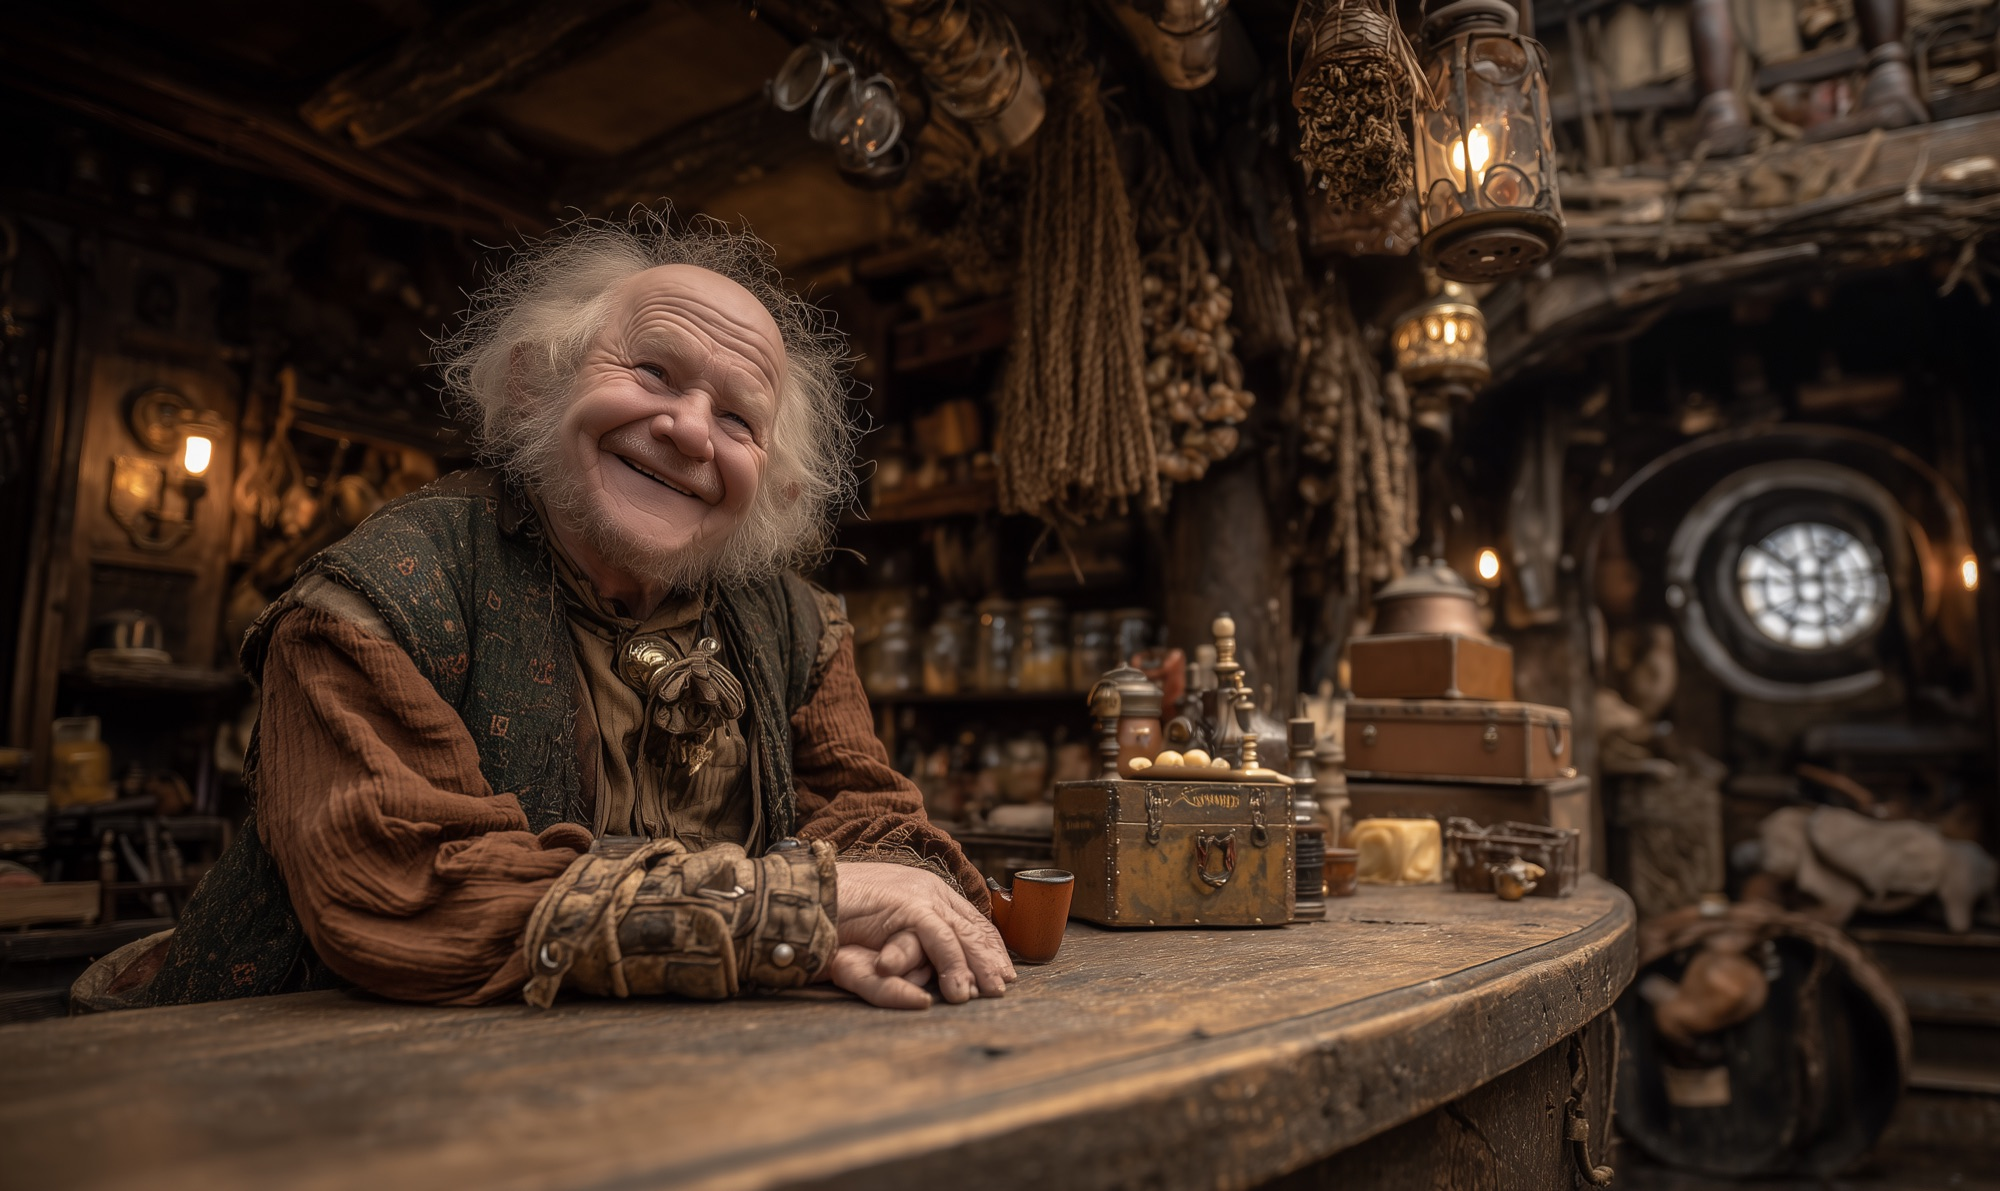
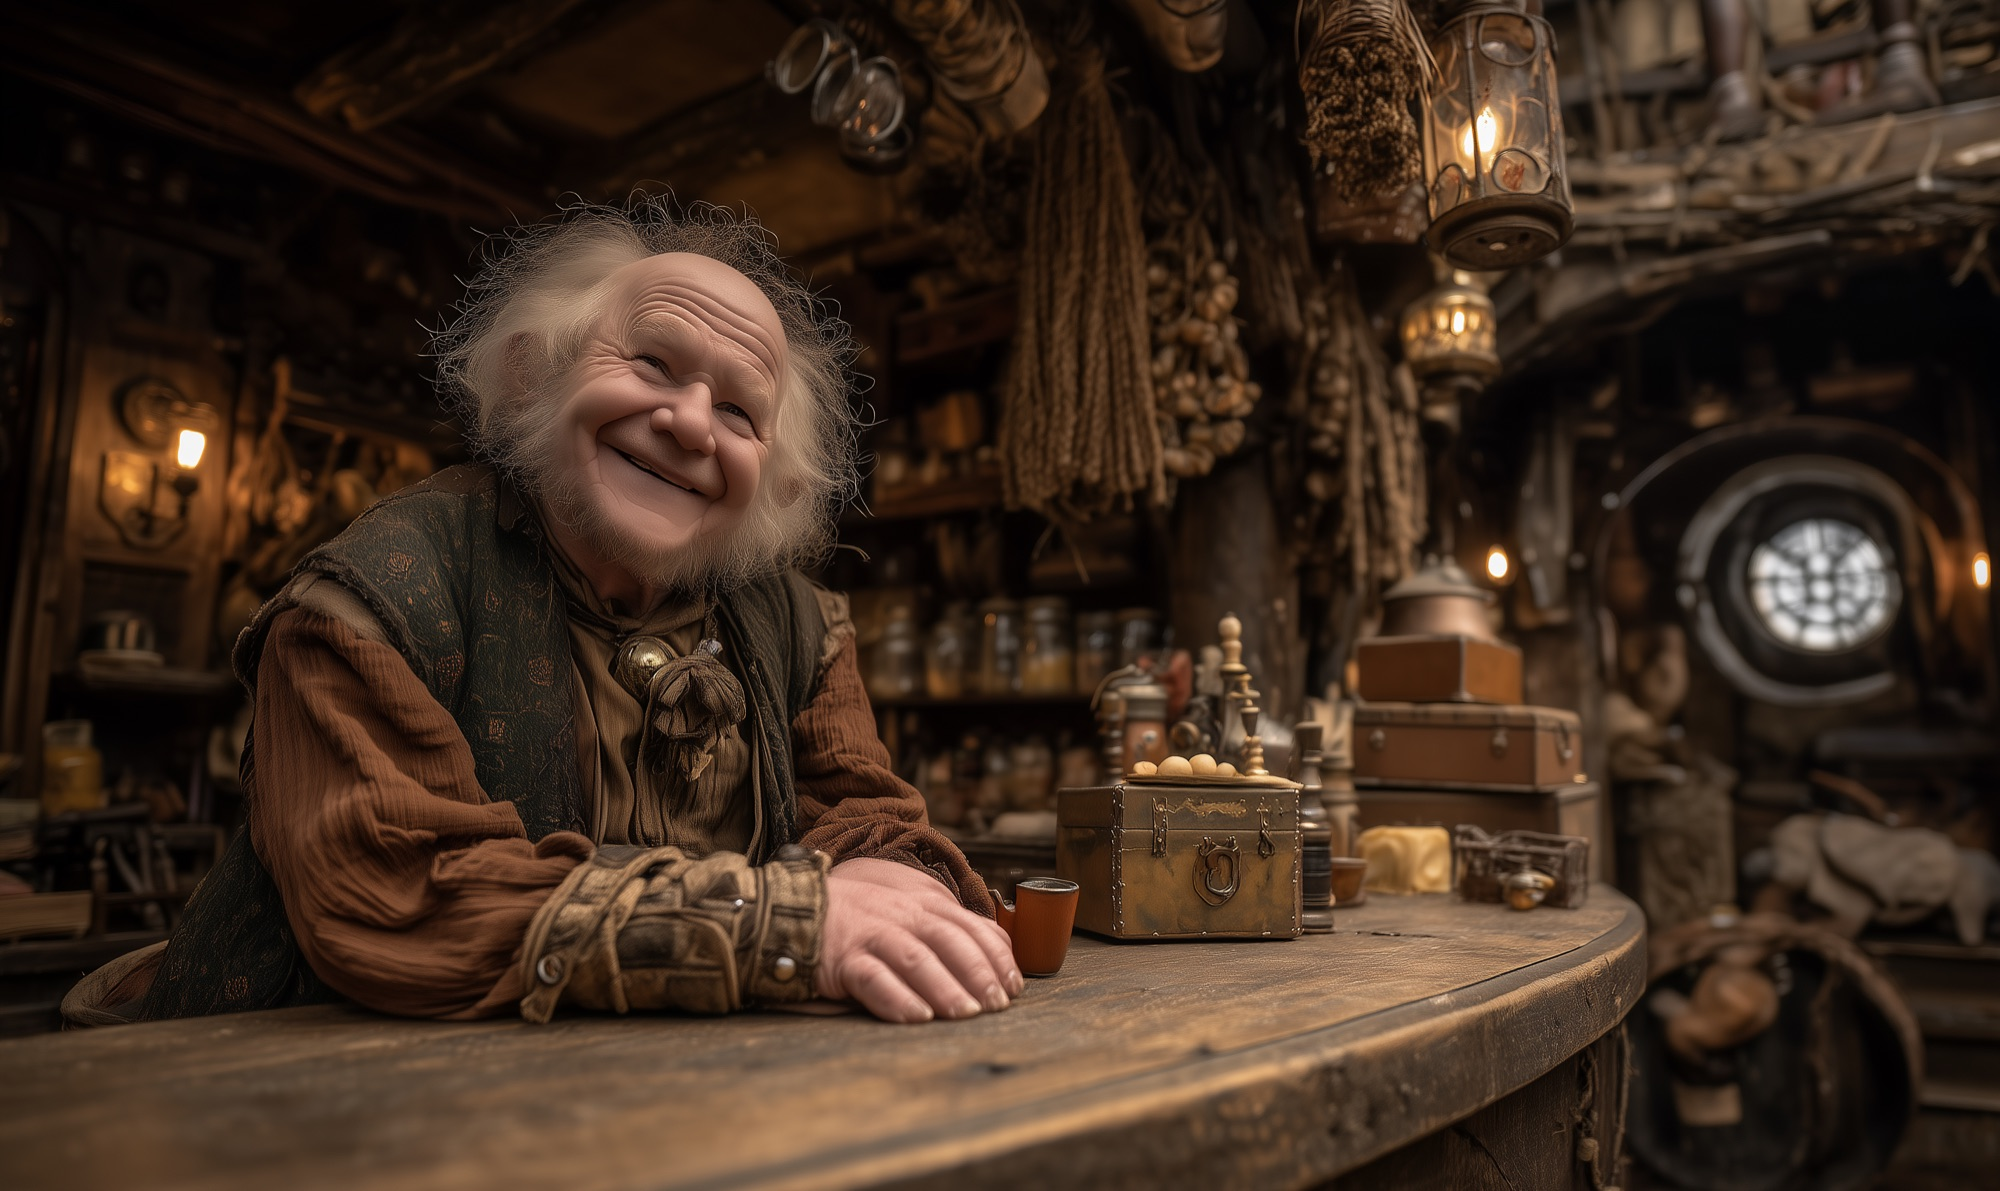
Shop prototype: Humble 1 is the fixed-hands take; drop Humble 3

diff --git a/design/prototypes/shop.html b/design/prototypes/shop.html
@@ -425,7 +425,7 @@
   <span>Art take</span>
   <div class="seg" id="takeSeg"><button class="on" data-v="1">Take 1</button><button data-v="2">Take 2</button></div>
   <span>Scene</span>
-  <div class="seg" id="sceneSeg"><button class="on" data-v="mags">Mags</button><button data-v="fancy-1">Fancy 1</button><button data-v="fancy-2">Fancy 2</button><button data-v="humble-1">Humble 1</button><button data-v="humble-2">Humble 2</button><button data-v="humble-3">Humble 3</button><button data-v="shady-1">Shady 1</button><button data-v="shady-2">Shady 2</button></div>
+  <div class="seg" id="sceneSeg"><button class="on" data-v="mags">Mags</button><button data-v="fancy-1">Fancy 1</button><button data-v="fancy-2">Fancy 2</button><button data-v="humble-1">Humble 1</button><button data-v="humble-2">Humble 2</button><button data-v="shady-1">Shady 1</button><button data-v="shady-2">Shady 2</button></div>
   <span>Shop</span>
   <div class="seg" id="stateSeg"><button data-v="closed">Closed</button><button data-v="scheduled">Scheduled</button><button class="on" data-v="open">Open</button><button data-v="lockup">Locking up</button><button data-v="combat">Combat round</button></div>
 </div>
@@ -1550,7 +1550,6 @@ const SCENES = {
   "fancy-2": { l: 0.25, src: "assets/shops/shop-fancy-2.jpg", name: "Aurelian & Daughters", keeper: "Aurelian", sub: "Purveyors to the discerning — Aurelian Vey, outfitter by appointment", r: 0.49, y: 0.44, cx: 0.38, chin: 0.56, pos: "30% 40%" },
   "humble-1": { l: 0.22, src: "assets/shops/shop-humble-1.jpg", name: "Underbough's Sundries", keeper: "Tobias", sub: "Bread, rope &amp; honest tools — old Tobias Underbough, since forever", r: 0.44, y: 0.37, cx: 0.33, chin: 0.46, pos: "30% 35%" },
   "humble-2": { l: 0.255, src: "assets/shops/shop-humble-2.jpg", name: "Underbough's Sundries", keeper: "Tobias", sub: "Bread, rope &amp; honest tools — old Tobias Underbough, since forever", r: 0.51, y: 0.37, cx: 0.4, chin: 0.5, pos: "30% 35%" },
-  "humble-3": { l: 0.22, src: "assets/shops/shop-humble-3.jpg", name: "Underbough's Sundries", keeper: "Tobias", sub: "Bread, rope &amp; honest tools — old Tobias Underbough, since forever", r: 0.44, y: 0.37, cx: 0.33, chin: 0.46, pos: "30% 35%" },
   "shady-1": { l: 0.23, src: "assets/shops/shop-shady-1.jpg", name: "The Drowned Lantern", keeper: "Vesk", sub: "Goods of uncertain history — Vesk, no questions asked", r: 0.42, y: 0.48, cx: 0.31, chin: 0.56, pos: "30% 45%" },
   "shady-2": { l: 0.205, src: "assets/shops/shop-shady-2.jpg", name: "The Drowned Lantern", keeper: "Old Nackle", sub: "Goods of uncertain history — Old Nackle, no questions asked", r: 0.49, y: 0.42, cx: 0.39, chin: 0.54, pos: "30% 40%" },
 };
